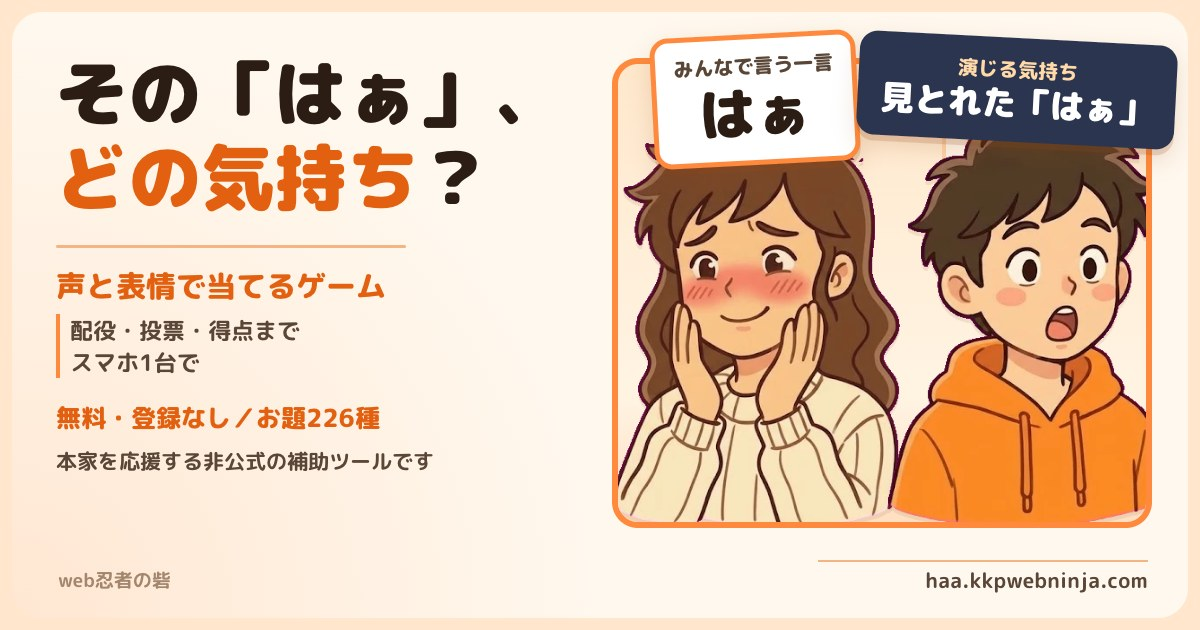
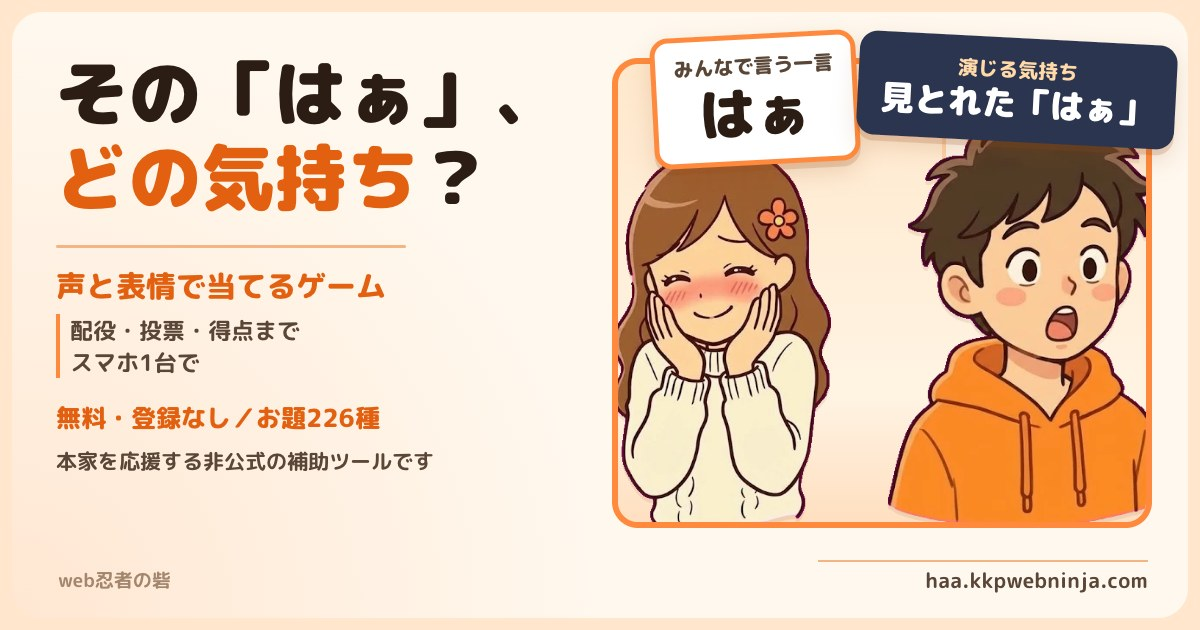
カード画像（OGP）の女の子を、ひと目で女の子と分かる絵に差し替える
男の子と同じ顔に見えていたため、kkp-kit の女の子の素材を作り直して書き出し直した（kkp-kit 978018e）。
og:image・twitter:image の ?d= を 20261023 にして、SNS に新しい画像を読み直させる。

Changed region(s): [[0.4933, 0.2111, 0.7708, 0.8444]]

diff --git a/odai/index.html b/odai/index.html
@@ -12,11 +12,11 @@
 <meta property="og:type" content="article">
 <meta property="og:url" content="https://haa.kkpwebninja.com/odai/">
 <meta property="og:site_name" content="声と表情で当てるゲーム">
-<meta property="og:image" content="https://haa.kkpwebninja.com/ogp.jpg?d=20261022">
+<meta property="og:image" content="https://haa.kkpwebninja.com/ogp.jpg?d=20261023">
 <meta name="twitter:card" content="summary_large_image">
 <link rel="icon" type="image/png" sizes="32x32" href="/favicon.png">
 <link rel="apple-touch-icon" sizes="180x180" href="/apple-touch-icon.png">
-<script type="application/ld+json">{"@context": "https://schema.org", "@type": "Article", "headline": "声と表情で演じるお題一覧【全226お題・1808通り】", "datePublished": "2026-09-05", "dateModified": "2026-10-17", "inLanguage": "ja", "mainEntityOfPage": "https://haa.kkpwebninja.com/odai/", "image": "https://haa.kkpwebninja.com/ogp.jpg?d=20261022", "author": {"@type": "Organization", "name": "web忍者の砦", "url": "https://kkpwebninja.com/"}, "publisher": {"@type": "Organization", "name": "web忍者の砦", "url": "https://kkpwebninja.com/"}}</script>
+<script type="application/ld+json">{"@context": "https://schema.org", "@type": "Article", "headline": "声と表情で演じるお題一覧【全226お題・1808通り】", "datePublished": "2026-09-05", "dateModified": "2026-10-17", "inLanguage": "ja", "mainEntityOfPage": "https://haa.kkpwebninja.com/odai/", "image": "https://haa.kkpwebninja.com/ogp.jpg?d=20261023", "author": {"@type": "Organization", "name": "web忍者の砦", "url": "https://kkpwebninja.com/"}, "publisher": {"@type": "Organization", "name": "web忍者の砦", "url": "https://kkpwebninja.com/"}}</script>
 <script type="application/ld+json">{"@context": "https://schema.org", "@type": "FAQPage", "mainEntity": [{"@type": "Question", "name": "お題は自由に使えますか？", "acceptedAnswer": {"@type": "Answer", "text": "この一覧のお題はすべて当サイトのオリジナルです。紙に書き写して遊んでいただいてかまいません。ただし、そのまま転載して配布することはご遠慮ください。"}}, {"@type": "Question", "name": "市販のカードゲーム『はぁって言うゲーム』のお題と同じですか？", "acceptedAnswer": {"@type": "Answer", "text": "違います。当サイトは非公式で、市販品のお題は一切含んでいません。すべて独自に作成したものです。"}}, {"@type": "Question", "name": "シチュエーションは何通りありますか？", "acceptedAnswer": {"@type": "Answer", "text": "226のお題に、それぞれ8通りのシチュエーションを用意しています（全1808通り）。人数が8人未満のときは上から必要な数だけ使います。"}}, {"@type": "Question", "name": "自分でお題を作るコツは？", "acceptedAnswer": {"@type": "Answer", "text": "同じ一言でも「誰に・どんな場面で」言うかを変えると成立します。分かりやすい気持ち（怒り・喜び）と、紛らわしい気持ち（照れ隠し・ごまかし）を混ぜると当てにくくなり盛り上がります。"}}]}</script>
 <script async src="https://www.googletagmanager.com/gtag/js?id=G-2LM85GJN0L"></script>
 <script>

diff --git a/index.html b/index.html
@@ -19,12 +19,12 @@
 <meta property="og:type" content="website">
 <meta property="og:url" content="https://haa.kkpwebninja.com/">
 <meta property="og:site_name" content="声と表情で当てるゲーム">
-<meta property="og:image" content="https://haa.kkpwebninja.com/ogp.jpg?d=20261022">
+<meta property="og:image" content="https://haa.kkpwebninja.com/ogp.jpg?d=20261023">
 <meta property="og:image:width" content="1200">
 <meta property="og:image:height" content="630">
 <meta name="twitter:card" content="summary_large_image">
 <meta name="twitter:title" content="はぁって言うゲームを遊ぶための無料ツール｜非公式の応援ツール">
-<meta name="twitter:image" content="https://haa.kkpwebninja.com/ogp.jpg?d=20261022">
+<meta name="twitter:image" content="https://haa.kkpwebninja.com/ogp.jpg?d=20261023">
 
 <link rel="icon" type="image/png" sizes="32x32" href="/favicon.png">
 <link rel="icon" type="image/png" sizes="192x192" href="/favicon-192.png">

diff --git a/haishin/index.html b/haishin/index.html
@@ -12,7 +12,7 @@
 <meta property="og:type" content="article">
 <meta property="og:url" content="https://haa.kkpwebninja.com/haishin/">
 <meta property="og:site_name" content="声と表情で当てるゲーム">
-<meta property="og:image" content="https://haa.kkpwebninja.com/ogp.jpg?d=20261022">
+<meta property="og:image" content="https://haa.kkpwebninja.com/ogp.jpg?d=20261023">
 <meta name="twitter:card" content="summary_large_image">
 <link rel="icon" type="image/png" sizes="32x32" href="/favicon.png">
 <link rel="apple-touch-icon" sizes="180x180" href="/apple-touch-icon.png">

diff --git a/scripts_build_odai.py b/scripts_build_odai.py
@@ -71,7 +71,7 @@ page_ld = json.dumps({'@context':'https://schema.org','@type':'Article',
   'headline': f'声と表情で演じるお題一覧【全{N_WORD}お題・{N_ACT}通り】',
   'datePublished': PUBLISHED, 'dateModified': UPDATED, 'inLanguage':'ja',
   'mainEntityOfPage': f'{SITE}/odai/',
-  'image': f'{SITE}/ogp.jpg?d=20261022',
+  'image': f'{SITE}/ogp.jpg?d=20261023',
   'author':{'@type':'Organization','name':'web忍者の砦','url':'https://kkpwebninja.com/'},
   'publisher':{'@type':'Organization','name':'web忍者の砦','url':'https://kkpwebninja.com/'}}, ensure_ascii=False)
 faq_html = ''.join(f'<dt>{esc(q)}</dt><dd>{esc(a)}</dd>' for q,a in FAQ)
@@ -94,7 +94,7 @@ out = f'''<!DOCTYPE html>
 <meta property="og:type" content="article">
 <meta property="og:url" content="{SITE}/odai/">
 <meta property="og:site_name" content="声と表情で当てるゲーム">
-<meta property="og:image" content="{SITE}/ogp.jpg?d=20261022">
+<meta property="og:image" content="{SITE}/ogp.jpg?d=20261023">
 <meta name="twitter:card" content="summary_large_image">
 <link rel="icon" type="image/png" sizes="32x32" href="/favicon.png">
 <link rel="apple-touch-icon" sizes="180x180" href="/apple-touch-icon.png">
